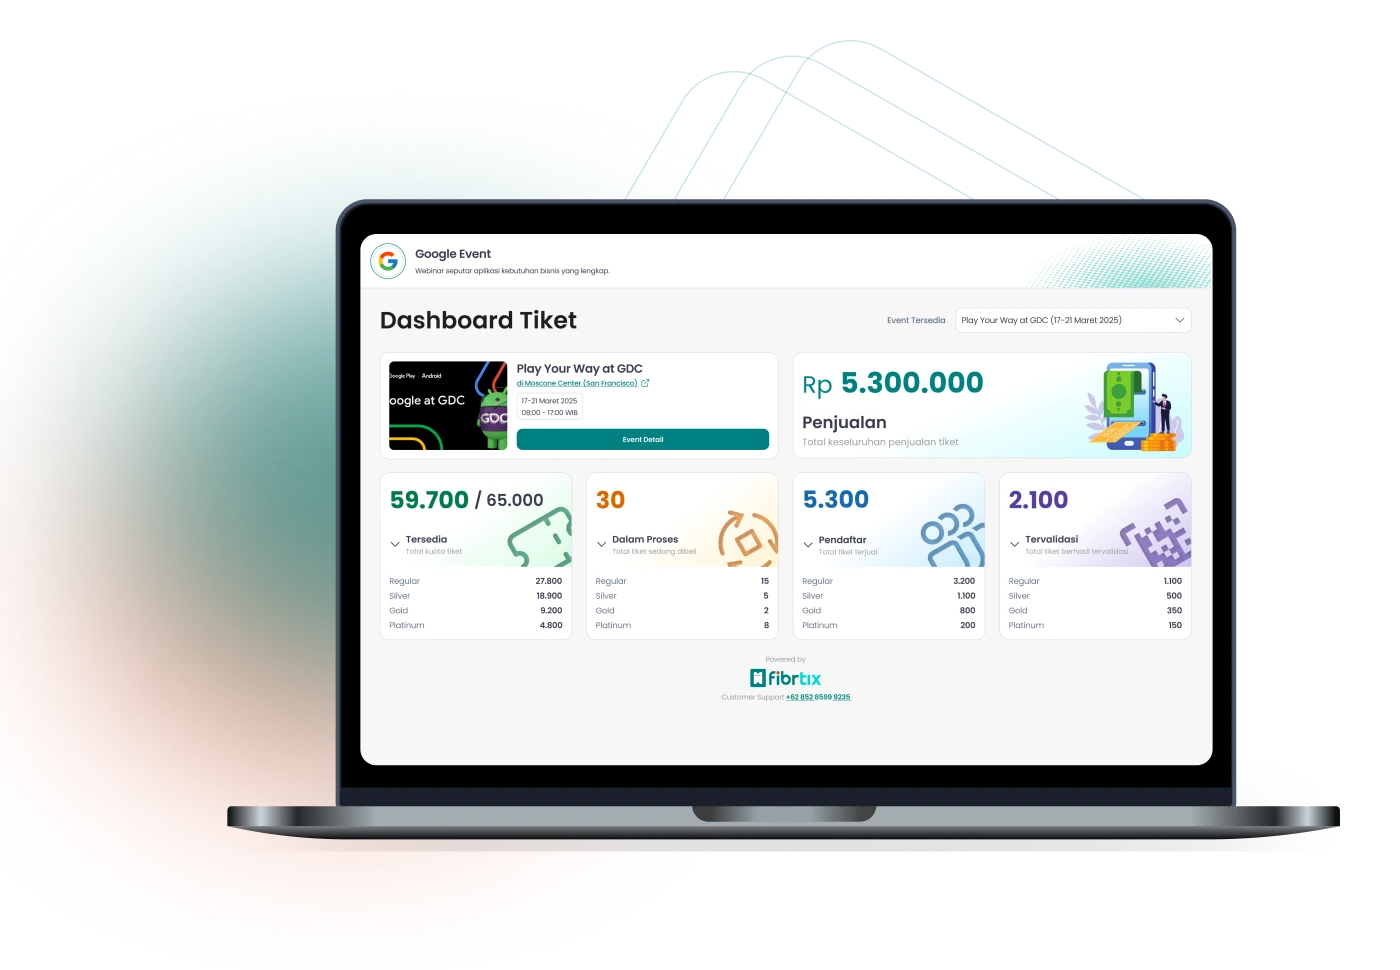
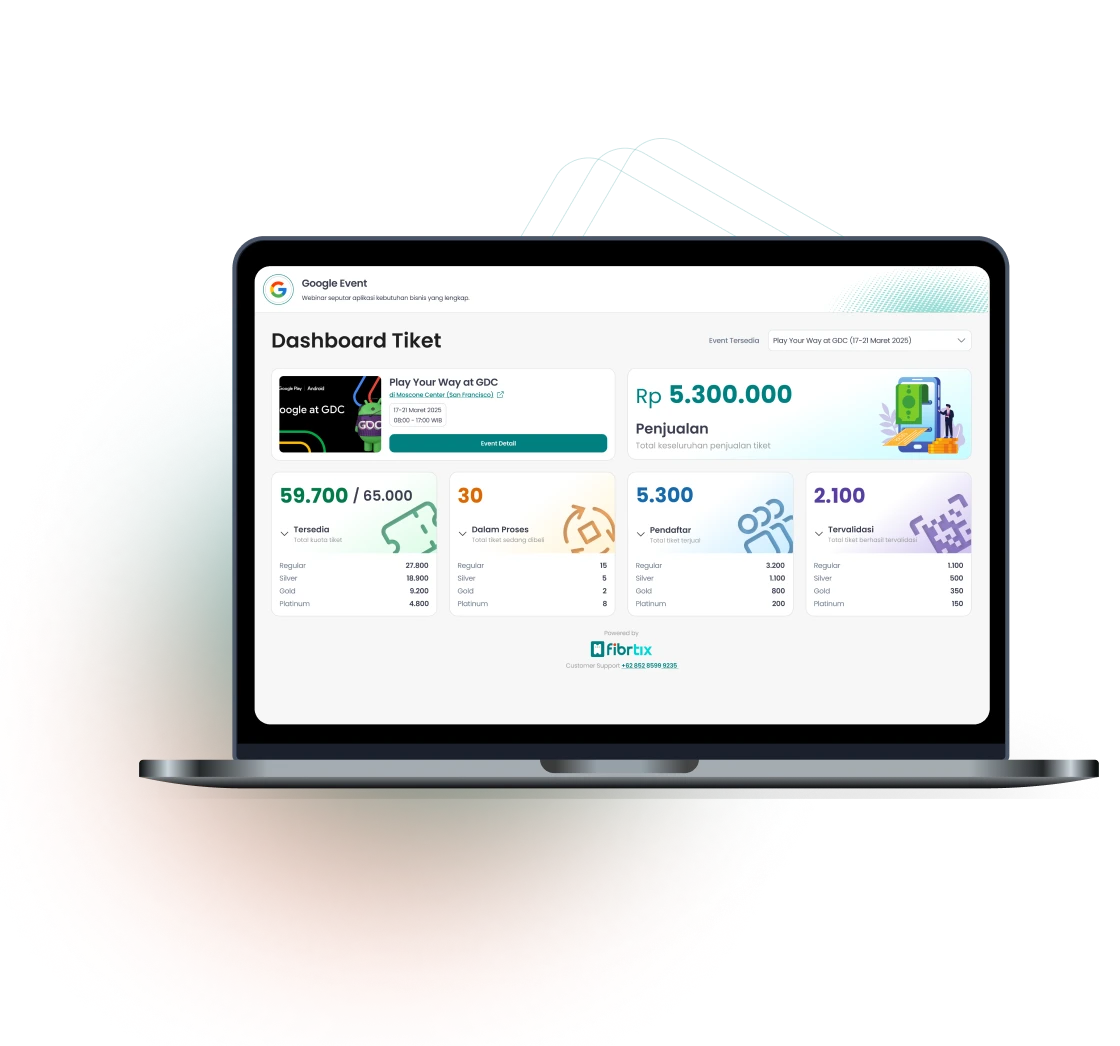
change hover menu

diff --git a/index.html b/index.html
@@ -19,12 +19,12 @@
             <nav class="sticky top-0 z-30 flex flex-col lg:flex-row md:flex-row items-center justify-between header--nav bg-transparent">
                 <div class="flex items-center flex-row space-x-4 md:space-x-8 mobile-nav gap-5 ">
                     <img src="./assets/images/fibrtix-white.png" alt="fibrtix logo" class="w-[150px] h-[39px] logo" />
-                    <ul class="hidden md:hidden lg:flex space-x-8 font-semibold text-white gap-[10px]">
-                        <li><a href="#home" class="hover:font-bold">Beranda</a></li>
-                        <li><a href="#events" class="hover:font-bold">Events</a></li>
-                        <li><a href="#choose-fibrtix" class="hover:font-bold">Pakai FibrTIX</a></li>
-                        <li><a href="#how-it-works" class="hover:font-bold">Cara Kerja</a></li>
-                        <li><a href="https://wa.me/6285285999235?text=Halo%20tim%20FibrTIX!%20Saya%20membutuhkan%20bantuan%20terkait%20layanan%20di%20FibrTIX." target="_blank" class="hover:font-bold">Hubungi Kami</a></li>
+                    <ul class="hidden md:hidden lg:flex space-x-8 font-semibold text-white">
+                        <li><a href="#home">Beranda</a></li>
+                        <li><a href="#events">Events</a></li>
+                        <li><a href="#choose-fibrtix">Pakai FibrTIX</a></li>
+                        <li><a href="#how-it-works">Cara Kerja</a></li>
+                        <li><a href="https://wa.me/6285285999235?text=Halo%20tim%20FibrTIX!%20Saya%20membutuhkan%20bantuan%20terkait%20layanan%20di%20FibrTIX." target="_blank">Hubungi Kami</a></li>
                     </ul>
                     <button id="mobile-menu-btn" class="lg:hidden text-white focus:outline-none mobile-menu-btn" aria-label="Open Menu">
                         <svg width="28" height="28" fill="none" stroke="currentColor" stroke-width="2" viewBox="0 0 24 24">
@@ -46,10 +46,10 @@
             <div id="mobile-menu" class="fixed inset-0 bg-black bg-opacity-80 z-40 flex flex-col items-center justify-center space-y-8 font-semibold text-white text-lg">
                 <button id="close-mobile-menu" class="absolute top-6 right-6">&times;</button>
                 <img src="./assets/images/fibrtix-green.png" alt="fibrtix logo" class="w-[150px] h-[39px] logo mt-[20px]" />
-                <a href="#home" class="hover:text-[#ffc522]">Beranda</a>
-                <a href="#events" class="hover:text-[#ffc522]">Events</a>
-                <a href="#choose-fibrtix" class="hover:text-[#ffc522]">Pakai FibrTIX</a>
-                <a href="#how-it-works" class="hover:text-[#ffc522]">Cara Kerja</a>
+                <a href="#home" class="scrolled-active">Beranda</a>
+                <a href="#events">Events</a>
+                <a href="#choose-fibrtix">Pakai FibrTIX</a>
+                <a href="#how-it-works">Cara Kerja</a>
                 <a href="https://wa.me/6285285999235?text=Halo%20tim%20FibrTIX!%20Saya%20membutuhkan%20bantuan%20terkait%20layanan%20di%20FibrTIX." target="_blank" class="hover:text-[#ffc522]">Hubungi Kami</a>
                 <a href="https://wa.me/6281385312266?text=Halo%20tim%20FibrTIX!%20Saya%20ingin%20membuat%20ticketing%20event%20di%20FibrTIX." target="_blank" class="btn-event-mobile">Buat Event</a>
             </div>
@@ -480,11 +480,9 @@
                 const href = link.getAttribute('href');
                 if (href && href.startsWith('#')) {
                     if (href === activeSection) {
-                        link.classList.add('!font-bold');
-                        link.classList.add('!text-[#008080]');
+                        link.classList.add('active');
                     } else {
-                        link.classList.remove('!font-bold');
-                        link.classList.remove('!text-[#008080]');
+                        link.classList.remove('active');
                     }
                 }
             });

diff --git a/assets/css/style.css b/assets/css/style.css
@@ -14,14 +14,29 @@
 }
 
 .header--nav {
-    padding: 20px 120px 16px 120px;
-    transition: background 0.3s, box-shadow 0.3s;
+    padding: 20px 100px 16px 100px;
     position: fixed;
     top: 0;
     left: 0;
     z-index: 30;
     width: 100%;
     font-family: Poppins;
+}
+
+.header--nav ul > li > a {
+    box-sizing: border-box;
+    padding: 10px 16px;
+    border-radius: 8px;
+}
+.header--nav ul > li > a:hover {
+    background: #FFFFFF29;
+    padding: 10px 16px;
+}
+
+.header--nav.scrolled ul > li > a:hover {
+    background: #008080;
+    padding: 10px 16px;
+    color: #fff !important;
 }
 
 .header--nav.scrolled {
@@ -31,6 +46,20 @@
 
 .header--nav.scrolled ul li a {
     color: #008080 !important;
+    padding: 10px 16px;
+    background: transparent;
+}
+
+.header--nav.scrolled ul li a.active{
+    background: #008080;
+    padding: 10px 16px;
+    color: #fff !important;
+}
+
+.header--nav.scrolled ul li a.active{
+    background: #008080;
+    padding: 10px 16px;
+    color: #fff !important;
 }
 
 .header--nav.scrolled .btn-nav {
